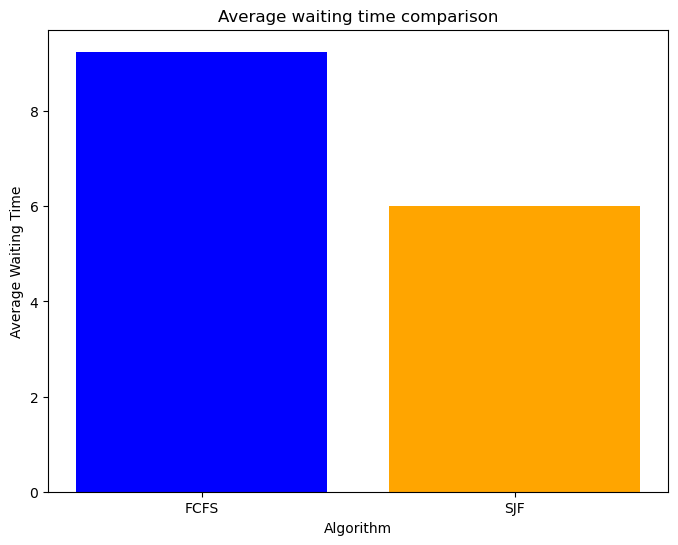
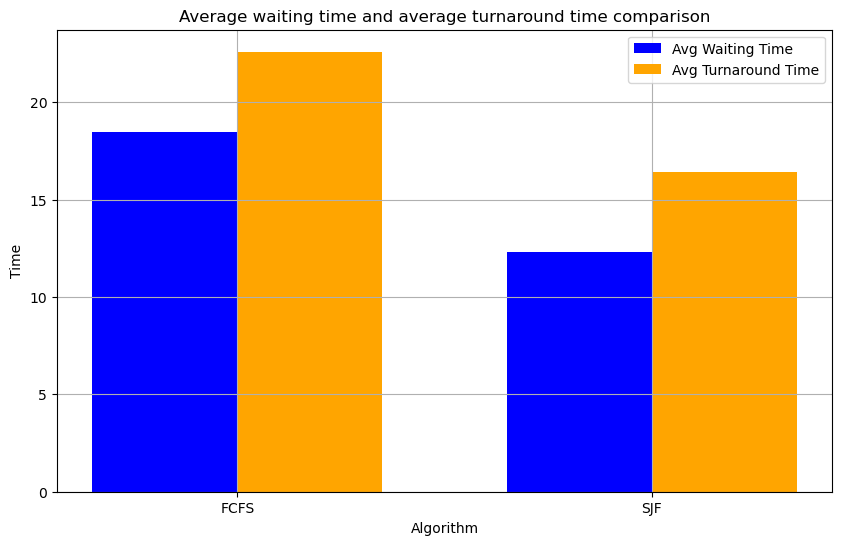
feat: add avg turnaround time calc and plot it

diff --git a/plots/process_results_plotter.py b/plots/process_results_plotter.py
@@ -7,6 +7,15 @@ PARENT_DIR = os.path.dirname(CURRENT_DIR)
 sys.path.append(PARENT_DIR)
 import data_handler
 
+def process_algorithm_data(json_data, algorithm_name):
+    results = json_data[-1]["results"]
+    data = {
+        "Algorithm": algorithm_name,
+        "Avg Waiting Time": results["average_waiting_time"],
+        "Avg Turnaround Time": results["average_turnaround_time"]
+    }
+    return data
+
 def get_output_json(filename):
     output_file_path = "output/" + filename + ".json"
     if os.path.exists(output_file_path):
@@ -20,18 +29,29 @@ def plot_process_results():
     json_data_fcfs = get_output_json("fcfs_out")
     json_data_sjf = get_output_json("sjf_out")
 
-    avg_waiting_fcfs = json_data_fcfs[-1]["results"]["average_waiting_time"]
-    avg_waiting_sjf = json_data_sjf[-1]["results"]["average_waiting_time"]
+    fcfs_data = process_algorithm_data(json_data_fcfs, "FCFS")
+    sjf_data = process_algorithm_data(json_data_sjf, "SJF")
 
-    data_frame = pd.DataFrame({"Algorithm": ["FCFS", "SJF"], "Average Waiting Time": [avg_waiting_fcfs, avg_waiting_sjf]})
+    df_fcfs = pd.DataFrame([fcfs_data])
+    df_sjf = pd.DataFrame([sjf_data])
 
-    plt.figure(figsize=(8, 6))
-    plt.bar(data_frame["Algorithm"], data_frame["Average Waiting Time"], color=['blue', 'orange'])
-    plt.title('Average waiting time comparison')
+    df_combined = pd.concat([df_fcfs, df_sjf], ignore_index=True)
+
+    plt.figure(figsize=(10, 6))
+
+    bar_width = 0.35
+    bar_positions_waiting = range(len(df_combined['Algorithm']))
+    bar_positions_turnaround = [p + bar_width for p in bar_positions_waiting]
+
+    plt.bar(bar_positions_waiting, df_combined['Avg Waiting Time'], width=bar_width, label='Avg Waiting Time', align='center', color='blue')
+    plt.bar(bar_positions_turnaround, df_combined['Avg Turnaround Time'], width=bar_width, label='Avg Turnaround Time', align='center', color='orange')
+
     plt.xlabel('Algorithm')
-    plt.ylabel('Average Waiting Time')
+    plt.ylabel('Time')
+    plt.title('Average waiting time and average turnaround time comparison')
+    plt.xticks([p + bar_width / 2 for p in bar_positions_waiting], df_combined['Algorithm'])
+    plt.legend()
+    plt.grid(True)
 
     plt.savefig('output/process_sched_plots.png', bbox_inches='tight')
     plt.show()
-
-#plot_process_results()

diff --git a/process_sched.py b/process_sched.py
@@ -48,12 +48,17 @@ class ProcessSched:
         return sum([p.burst_time for p in self.processes])
         # return max([process.finish_time for process in self.processes])
 
+    def calculate_avg_tat(self):
+        finish_time_sum = sum([p.finish_time for p in self.processes])
+        return finish_time_sum / len(self.processes)
+
 
     def simulate(self):
         self.create_processes()
         self.calculate_waiting_time()
         self.calculate_finish_time()
         avg_waiting_time = self.calculate_average_waiting_time()
+        avg_tat = self.calculate_avg_tat()
         total_time = self.calculate_total_time()
 
         print('Process\tWaiting Time\tFinish Time')
@@ -67,8 +72,9 @@ class ProcessSched:
             self.time += timer
             print(f'{process.id}\t\t{process.waiting_time}\t\t{process.finish_time}')
             self.log.log_process(process.id, process.waiting_time, process.finish_time)
-        self.log.log_process_final(avg_waiting_time, total_time)
+        self.log.log_process_final(avg_waiting_time, total_time, avg_tat)
         print('Average waiting time: ', avg_waiting_time)
+        print('Average turnaround time: ', avg_tat)
         print('Total time: ', total_time) 
 
 #if __name__ == "__main__":

diff --git a/log.py b/log.py
@@ -13,10 +13,11 @@ class Log:
         }
         self.logs.append(process_log)
 
-    def log_process_final(self, avg_waiting_time, total_time):
+    def log_process_final(self, avg_waiting_time, total_time, avg_tat):
         results_log = {
             'average_waiting_time': avg_waiting_time,
-            'total_time': total_time
+            'total_time': total_time,
+            'average_turnaround_time': avg_tat
         }
         process_final_log = {
             'results': results_log
